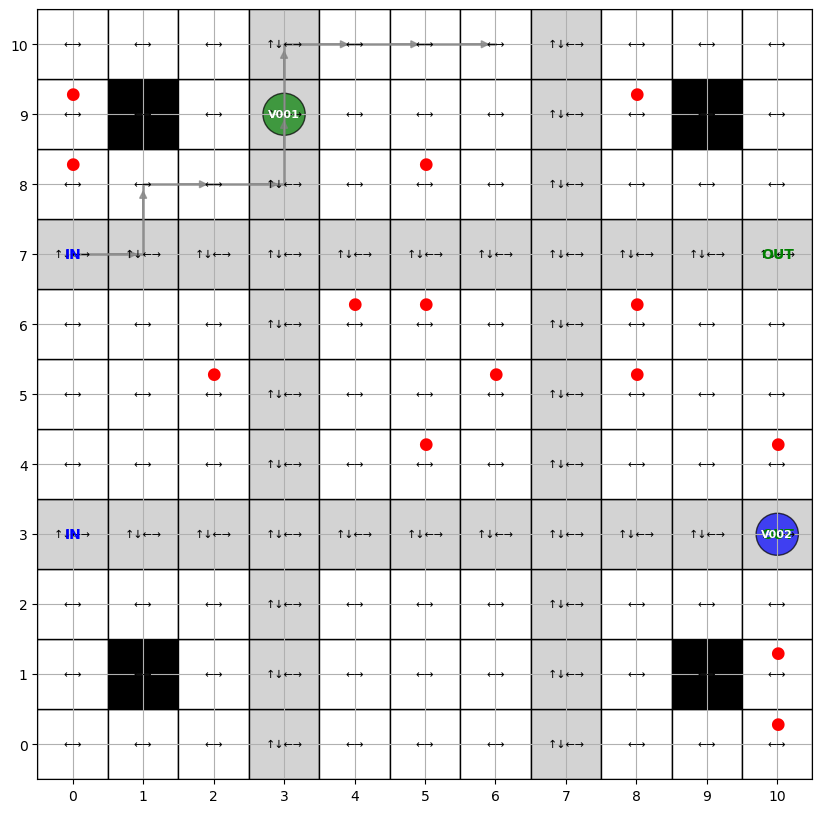
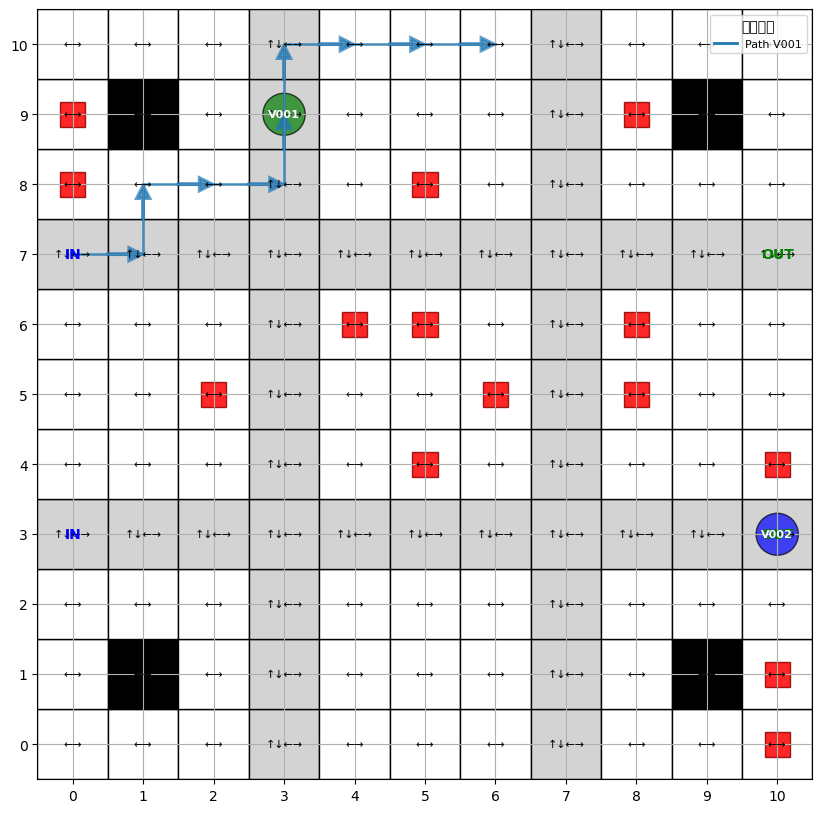
color

diff --git a/src/utils/visualizer.py b/src/utils/visualizer.py
@@ -1,6 +1,7 @@
 import matplotlib.pyplot as plt
+from matplotlib.lines import Line2D
 import matplotlib.patches as patches
-from typing import List, Tuple, Dict, Optional
+from typing import List
 from src.models.grid import Grid, GRID_TYPE_NORMAL_CHANNEL, GRID_TYPE_MAIN_CHANNEL, GRID_TYPE_OBSTACLE
 from src.models.vehicle import Vehicle
 
@@ -76,7 +77,12 @@ class GridVisualizer:
                     
                     # 绘制货物标记
                     if cell.has_cargo:
-                        self.ax.text(x, y + 0.3, "●", ha='center', va='center', color='red', fontsize=12)
+                        # 用红色小矩形块表示货物
+                        cargo_rect = patches.Rectangle(
+                            (x - 0.18, y - 0.18), 0.36, 0.36,
+                            facecolor='red', edgecolor='darkred', alpha=0.85
+                        )
+                        self.ax.add_patch(cargo_rect)
         
         # 绘制入口和出口
         for x, y in self.grid.entrances:
@@ -85,11 +91,18 @@ class GridVisualizer:
             self.ax.text(x, y, "OUT", ha='center', va='center', color='green', fontsize=10, weight='bold')
     
     def draw_vehicles(self) -> None:
-        """绘制车辆"""
+        """绘制车辆及其路径（每辆车路径不同颜色，并添加图例）"""
+        # 为每辆车分配唯一颜色
+        cmap = plt.get_cmap('tab20')
+        vehicle_ids = [v.id for v in self.vehicles]
+        color_map = {vid: cmap(i % 20) for i, vid in enumerate(vehicle_ids)}
+
+        legend_elements = []
+
         for vehicle in self.vehicles:
             x, y = vehicle.current_position
             color = self.vehicle_colors.get(vehicle.vehicle_type, 'gray')
-            
+
             # 绘制车辆
             circle = patches.Circle(
                 (x, y), 0.3,
@@ -98,30 +111,35 @@ class GridVisualizer:
                 alpha=0.7
             )
             self.ax.add_patch(circle)
-            
+
             # 绘制车辆ID
             self.ax.text(x, y, vehicle.id, ha='center', va='center', color='white', fontsize=8, weight='bold')
-            
-            # 绘制路径
+
+            # 绘制路径（每辆车唯一颜色）
             if vehicle.path:
                 path_x = [p[0] for p in vehicle.path]
                 path_y = [p[1] for p in vehicle.path]
-                # 根据车辆状态选择路径颜色
-                path_color = self.path_status_colors.get(vehicle.status, 'gray')
-                # 如果车辆在等待状态，使用虚线样式
+                path_color = color_map[vehicle.id]
                 linestyle = '--' if vehicle.status == "waiting" else '-'
                 self.ax.plot(path_x, path_y, linestyle, color=path_color, alpha=0.7, linewidth=2)
-                
-                # 在路径上添加箭头指示方向
+                # 路径箭头
                 if len(path_x) > 1:
                     for i in range(len(path_x) - 1):
                         mid_x = (path_x[i] + path_x[i + 1]) / 2
                         mid_y = (path_y[i] + path_y[i + 1]) / 2
                         dx = path_x[i + 1] - path_x[i]
                         dy = path_y[i + 1] - path_y[i]
-                        self.ax.arrow(mid_x, mid_y, dx * 0.3, dy * 0.3,
-                                    head_width=0.1, head_length=0.1,
-                                    fc=path_color, ec=path_color, alpha=0.7)
+                        self.ax.arrow(
+                            mid_x, mid_y, dx * 0.3, dy * 0.3,
+                            head_width=0.18, head_length=0.18,  # 更粗的箭头
+                            fc=path_color, ec=path_color, alpha=0.7, linewidth=2.5  # 更粗的线
+                        )
+                # 图例元素
+                legend_elements.append(Line2D([0], [0], color=path_color, lw=2, label=f'Path {vehicle.id}'))
+
+        # 添加图例
+        if legend_elements:
+            self.ax.legend(handles=legend_elements, loc='upper right', fontsize=8, title="车辆路径")
     
     def save(self, filename: str) -> None:
         """保存图像"""
@@ -131,4 +149,4 @@ class GridVisualizer:
     def show(self) -> None:
         """显示图像"""
         plt.show()
-        plt.close() 
+        plt.close()

diff --git a/src/scheduler.py b/src/scheduler.py
@@ -179,7 +179,7 @@ class Scheduler:
     def load_map_and_tasks(self, map_filename: str, tasks_filename: str) -> None:
         """从JSON文件加载地图和任务"""
         self.grid.load_from_json(map_filename)
-        self.constraint_manager.set_grid(self.grid)
+        self.constraint_manager.grid = self.grid
         try:
             with open(tasks_filename, 'r', encoding='utf-8') as f:
                 tasks_data = json.load(f)
@@ -335,5 +335,5 @@ class Scheduler:
 
 if __name__ == "__main__":
     scheduler = Scheduler(num_vehicles=2)
-    # scheduler.run(num_tasks=3, max_steps=100, save_map=True, save_tasks=True)
-    scheduler.run(num_tasks=0, max_steps=100, save_map=False, save_tasks=False)
+    scheduler.run(num_tasks=3, max_steps=100, save_map=True, save_tasks=True)
+    # scheduler.run(num_tasks=0, max_steps=100, save_map=False, save_tasks=False)
